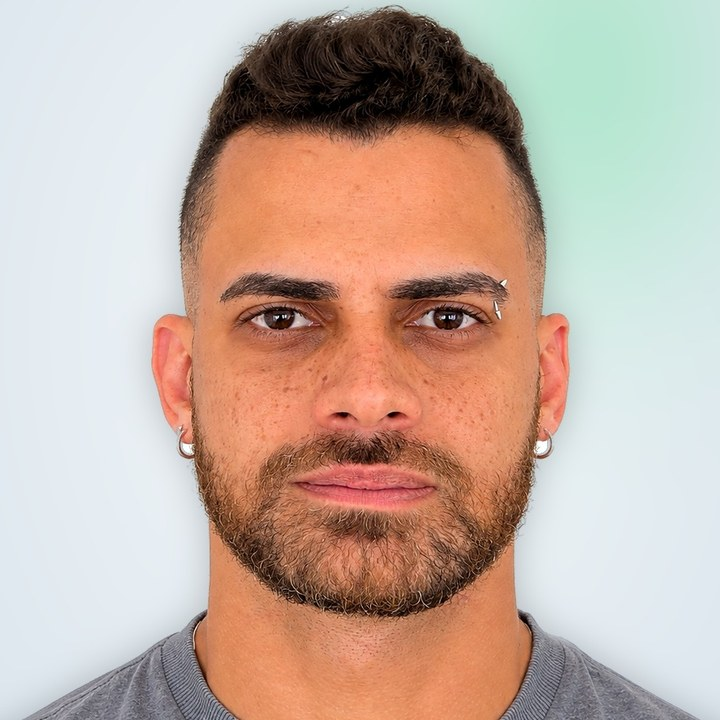
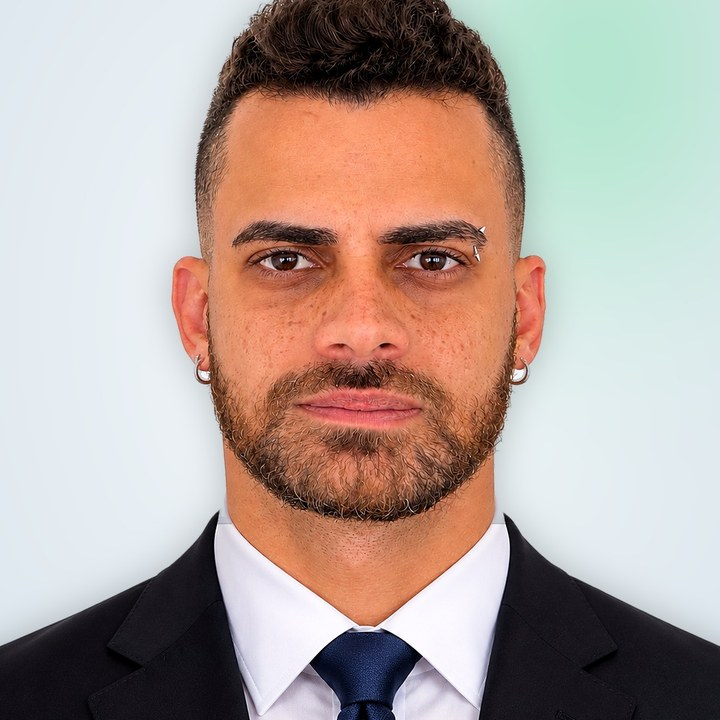
Robô travado dentro da tela; balão 360° colado no robô; 10 s de silêncio entre falas; foto de terno centralizada no celular (#46)
Claude-Session: https://claude.ai/code/session_01W4EMxrHJE2KvoUZMjh5ybf

diff --git a/src/components/Experience.tsx b/src/components/Experience.tsx
@@ -382,74 +382,70 @@ export default function Experience() {
         ultimaFala = performance.now();
         bubbleTxt.textContent = text;
         bubbleTl?.kill();
-        // o balão nunca sai da tela: mede no tamanho final e empurra para dentro
-        gsap.set(bubble, { x: 0, y: 0, scale: 1 });
-        const r = bubble.getBoundingClientRect();
-        const pad = 10, W = window.innerWidth;
-        const shift = r.left < pad ? pad - r.left : r.right > W - pad ? W - pad - r.right : 0;
-        // o balão escolhe onde fica: acima do Orbe (padrão), um pouco mais alto/baixo, ou embaixo dele —
-        // o lugar que cobre MENOS texto e botão (pedido do Victor: no celular ele cobria o botão)
-        const orbR = (droneBody.querySelector(".drone__orb") as HTMLElement | null)?.getBoundingClientRect();
-        const abaixo = orbR ? orbR.bottom + 8 - r.top : 160;
-        const rs = $$("main h1, main h2, main h3, main p, main li, main .btn, main .pill").map((e) => e.getBoundingClientRect());
-        if (orbR) rs.push(orbR); // nunca em cima do próprio Orbe
-        const topoLivre = ($(".header")?.getBoundingClientRect().bottom ?? 70) + 8; // nem atrás do cabeçalho
-        const foraDaTela = (dy: number) => r.top + dy < topoLivre || r.bottom + dy > window.innerHeight - 10;
-        const cobre = (dy: number) => rs.reduce((t, q) => {
-          const w = Math.min(r.right + shift, q.right) - Math.max(r.left + shift, q.left);
-          const h = Math.min(r.bottom + dy, q.bottom) - Math.max(r.top + dy, q.top);
-          return t + (w > 0 && h > 0 ? w * h : 0);
-        }, foraDaTela(dy) ? 1000000000 : 0);
-        // folga até o texto mais próximo (acima e abaixo) na faixa horizontal do balão
-        const folga = (dy: number) => {
-          let cima = 9999, baixo = 9999;
-          for (const q of rs) {
-            if (Math.min(r.right + shift, q.right) - Math.max(r.left + shift, q.left) <= 0) continue;
-            if (q.bottom <= r.top + dy) cima = Math.min(cima, r.top + dy - q.bottom);
-            if (q.top >= r.bottom + dy) baixo = Math.min(baixo, q.top - (r.bottom + dy));
-          }
-          return Math.min(cima, baixo, 60);
-        };
-        // procura, perto do Orbe, a posição sem sobreposição e CENTRALIZADA no vão entre textos
-        // (ex.: no meio do espaço entre o parágrafo e o botão)
-        let dy = 0, melhor = Infinity;
-        for (let c = -240; c <= Math.max(240, abaixo); c += 4) {
-          const v = cobre(c) * 1000 - folga(c) * 10 + Math.abs(c) * 0.15;
-          if (v < melhor) { melhor = v; dy = c; }
-        }
-        // vão pedido (ex.: entre o parágrafo e os botões do topo): se couber, o balão fica no MEIO dele
-        if (vao) {
-          const a = $(vao[0])?.getBoundingClientRect(), b = $(vao[1])?.getBoundingClientRect();
-          if (a && b && b.top - a.bottom >= r.height + 6) {
-            const c = (a.bottom + b.top) / 2 - (r.top + r.bottom) / 2;
-            if (!foraDaTela(c)) dy = c;
-          }
-        }
-        gsap.set(bubble, { x: shift, y: dy, scale: 0.6 });
-        // o balão é filho do Orbe e anda com ele: enquanto aparece, ele é mantido SEMPRE dentro da tela
-        // (margem de segurança de 14px nas laterais, abaixo do cabeçalho e acima do rodapé) — antes ele
-        // era posicionado só no instante em que surgia e, se o Orbe andasse, a frase saía pela borda.
-        // Com vão pedido (abertura), ele também fica centralizado no vão entre o texto e os botões.
-        if (grudar) gsap.ticker.remove(grudar);
+        // ===== POSIÇÃO DO BALÃO: 360° em volta do Orbe (pedido do Victor) =====
+        // Testa 12 direções (em cima, embaixo, esquerda, direita e diagonais), sempre COLADO no Orbe,
+        // e fica com a que cabe inteira na tela e cobre menos texto. A direção escolhida vale enquanto a
+        // frase aparece; a cada quadro o balão acompanha o Orbe e é travado dentro da tela (margem 14px).
         const MARGEM = 14;
+        gsap.set(bubble, { x: 0, y: 0, scale: 1 });
+        const orbEl = droneBody.querySelector(".drone__orb") as HTMLElement | null;
+        const W0 = window.innerWidth, H0 = window.innerHeight;
+        const topo0 = ($(".header")?.getBoundingClientRect().bottom ?? 60) + 8;
+        const bw = bubble.offsetWidth, bh = bubble.offsetHeight;
+        const textos = $$("main h1, main h2, main h3, main p, main li, main .btn, main .pill").map((e) => e.getBoundingClientRect());
+        const centroOrbe = () => {
+          const o = (orbEl ?? droneBody).getBoundingClientRect();
+          return { x: o.left + o.width / 2, y: o.top + o.height / 2, rx: o.width * 0.42, ry: o.height * 0.42 };
+        };
+        const oc0 = centroOrbe();
+        const GAP = 6;
+        const offsetDe = (ang: number) => {
+          const c = Math.cos(ang), sn = Math.sin(ang);
+          return { x: c * (oc0.rx + GAP + bw / 2), y: sn * (oc0.ry + GAP + bh / 2) };
+        };
+        const custo = (ox: number, oy: number) => {
+          const cx = oc0.x + ox, cy = oc0.y + oy;
+          const l = cx - bw / 2, r2 = cx + bw / 2, t = cy - bh / 2, btm = cy + bh / 2;
+          const fora = Math.max(0, MARGEM - l) + Math.max(0, r2 - (W0 - MARGEM)) + Math.max(0, topo0 - t) + Math.max(0, btm - (H0 - MARGEM));
+          let c = fora * 5000;
+          for (const q of textos) {
+            const w = Math.min(r2, q.right) - Math.max(l, q.left), h = Math.min(btm, q.bottom) - Math.max(t, q.top);
+            if (w > 0 && h > 0) c += w * h;
+          }
+          return c;
+        };
+        // ordem de preferência em empate: em cima, lados, embaixo
+        const angulos = [-90, -60, -120, 0, 180, -30, -150, 30, 150, 60, 120, 90].map((g) => (g * Math.PI) / 180);
+        let off = offsetDe(angulos[0]), melhor = Infinity;
+        angulos.forEach((ang, i) => {
+          const o = offsetDe(ang);
+          const v = custo(o.x, o.y) + i * 2;
+          if (v < melhor) { melhor = v; off = o; }
+        });
+        // abertura (vão pedido): com a página no topo, centraliza o balão no vão entre o texto e os botões
+        const alvoVao = () => {
+          if (!vao || window.scrollY > 30) return null;
+          const va = $(vao[0])?.getBoundingClientRect(), vb = $(vao[1])?.getBoundingClientRect();
+          if (!va || !vb || vb.top - va.bottom < bh + 6) return null;
+          return (va.bottom + vb.top) / 2;
+        };
+        if (grudar) gsap.ticker.remove(grudar);
         grudar = () => {
-          const atual = bubble.getBoundingClientRect();
-          const xAtual = Number(gsap.getProperty(bubble, "x")), yAtual = Number(gsap.getProperty(bubble, "y"));
-          const esc = Number(gsap.getProperty(bubble, "scale")) || 1;
-          const larg = atual.width / esc, alt = atual.height / esc;
-          // posição "natural" (sem os ajustes) do centro do balão
-          const cxN = (atual.left + atual.right) / 2 - xAtual, cyN = (atual.top + atual.bottom) / 2 - yAtual;
+          const oc = centroOrbe();
           const W2 = window.innerWidth, H2 = window.innerHeight;
           const topo = ($(".header")?.getBoundingClientRect().bottom ?? 60) + 8;
-          let y = yAtual;
-          if (vao) {
-            const a = $(vao[0])?.getBoundingClientRect(), b = $(vao[1])?.getBoundingClientRect();
-            if (a && b && b.top - a.bottom >= alt + 6) y = (a.bottom + b.top) / 2 - cyN;
-          }
-          const cx = gsap.utils.clamp(MARGEM + larg / 2, W2 - MARGEM - larg / 2, cxN);
-          const cy = gsap.utils.clamp(topo + alt / 2, H2 - MARGEM - alt / 2, cyN + y);
-          gsap.set(bubble, { x: cx - cxN, y: cy - cyN });
+          // canto natural do balão (sem transform): posição do .drone + posição do balão dentro dele
+          const d = drone.getBoundingClientRect();
+          const natL = d.left + bubble.offsetLeft, natT = d.top + bubble.offsetTop;
+          let cx = oc.x + off.x, cy = oc.y + off.y;
+          const yv = alvoVao();
+          if (yv !== null) cy = yv;
+          cx = gsap.utils.clamp(MARGEM + bw / 2, W2 - MARGEM - bw / 2, cx);
+          cy = gsap.utils.clamp(topo + bh / 2, H2 - MARGEM - bh / 2, cy);
+          gsap.set(bubble, { x: cx - (natL + bw / 2), y: cy - (natT + bh / 2) });
         };
+        grudar();
+        gsap.set(bubble, { scale: 0.6, transformOrigin: "50% 50%" });
         gsap.ticker.add(grudar);
         const soltar = () => { if (grudar) gsap.ticker.remove(grudar); grudar = undefined; };
         bubbleTl = gsap
@@ -653,6 +649,27 @@ export default function Experience() {
         }
       };
       gsap.ticker.add(avoid);
+      // ===== TRAVA FINAL: o Orbe NUNCA sai da tela (pedido do Victor, já tinha voltado a acontecer) =====
+      // O voo e o desvio são animações suaves e, numa rolagem rápida, a rota chega à borda antes do
+      // desvio alcançar — o Orbe saía metade para fora. Esta trava mede o Orbe a CADA quadro e empurra
+      // a camada de volta para dentro (margem 8px), usando a propriedade CSS `translate`, que soma com
+      // as animações do GSAP sem brigar com elas. Não suaviza: na borda, ela segura na hora.
+      const orbTrava = $(".drone__orb") as HTMLElement | null;
+      let travaX = 0, travaY = 0;
+      const travar = () => {
+        const alvo = (orbTrava && orbTrava.isConnected ? orbTrava : ($(".drone__orb") as HTMLElement | null)) ?? droneBody;
+        const r = alvo.getBoundingClientRect();
+        if (!r.width) return;
+        const W = window.innerWidth, H = window.innerHeight, m = 8;
+        const topoMin = 4;
+        // posição sem a trava
+        const l = r.left - travaX, rt = r.right - travaX, t = r.top - travaY, b = r.bottom - travaY;
+        travaX = l < m ? m - l : rt > W - m ? W - m - rt : 0;
+        travaY = t < topoMin ? topoMin - t : b > H - m ? H - m - b : 0;
+        layer.style.translate = `${travaX}px ${travaY}px`;
+      };
+      gsap.ticker.add(travar);
+      cleanups.push(() => { gsap.ticker.remove(travar); layer.style.translate = ""; });
       cleanups.push(() => gsap.ticker.remove(avoid));
 
       const sparks = () => {
@@ -689,12 +706,14 @@ export default function Experience() {
         "Do diagnóstico ao suporte, eu cuido de tudo ✨",
       ];
       const INTERVALO = 10000;
+      const DURACAO_FALA = 5000; // entrada + 4 s visível + saída
       let passo = 1; // a saudação de abertura já foi um "toque"; o próximo é benefício/incentivo
       let iToque = 0, iOutra = 0;
       const menuAberto = () => !!document.querySelector(".orbmenu.is-open");
       const timerFala = setInterval(() => {
         if (ultimaFala < 0 || document.hidden || menuAberto()) return; // começa só depois da saudação de abertura
-        if (performance.now() - ultimaFala < INTERVALO - 300) return; // outra fala acabou de sair
+        // 10 s de SILÊNCIO entre uma frase sumir e a próxima aparecer (cada frase fica ~5 s na tela)
+        if (performance.now() - ultimaFala < INTERVALO + DURACAO_FALA) return;
         const texto = passo % 2 === 0 ? TOQUE[iToque++ % TOQUE.length] : OUTRAS[iOutra++ % OUTRAS.length];
         passo++;
         droneSay(texto);

diff --git a/src/app/page.tsx b/src/app/page.tsx
@@ -413,7 +413,7 @@ export default function Home() {
                 <text><textPath href="#circ">GESTÃO NA PRÁTICA ✦ TECNOLOGIA COM PROPÓSITO ✦ </textPath></text>
               </svg>
               {/* eslint-disable-next-line @next/next/no-img-element */}
-              <img src="/sobre/victor-mafra.jpg" alt="Victor Mafra" width={720} height={720} className="about__foto" loading="lazy" />
+              <img src="/sobre/victor-mafra.jpg?v=2" alt="Victor Mafra" width={720} height={720} className="about__foto" loading="lazy" />
             </div>
             <div>
               <Eyebrow>Quem está por trás</Eyebrow>

diff --git a/src/app/theme-claro.css b/src/app/theme-claro.css
@@ -757,3 +757,11 @@ main, section, footer { max-width: 100vw; }
   .hero__ctas .btn { width: min(288px, calc(100vw - 140px)) !important; }
 }
 @media (max-width: 420px) { .hero__ctas .btn { font-size: .74rem !important; padding-inline: 10px !important; } }
+
+/* parte Sobre: menos espaço depois dos cases; no celular a foto fica centralizada */
+.work { padding-bottom: 70px !important; }
+@media (max-width: 860px) {
+  .work { padding-bottom: 40px !important; }
+  .about__head { justify-items: center; text-align: left; }
+  .about__badge { margin-left: auto !important; margin-right: auto !important; }
+}
